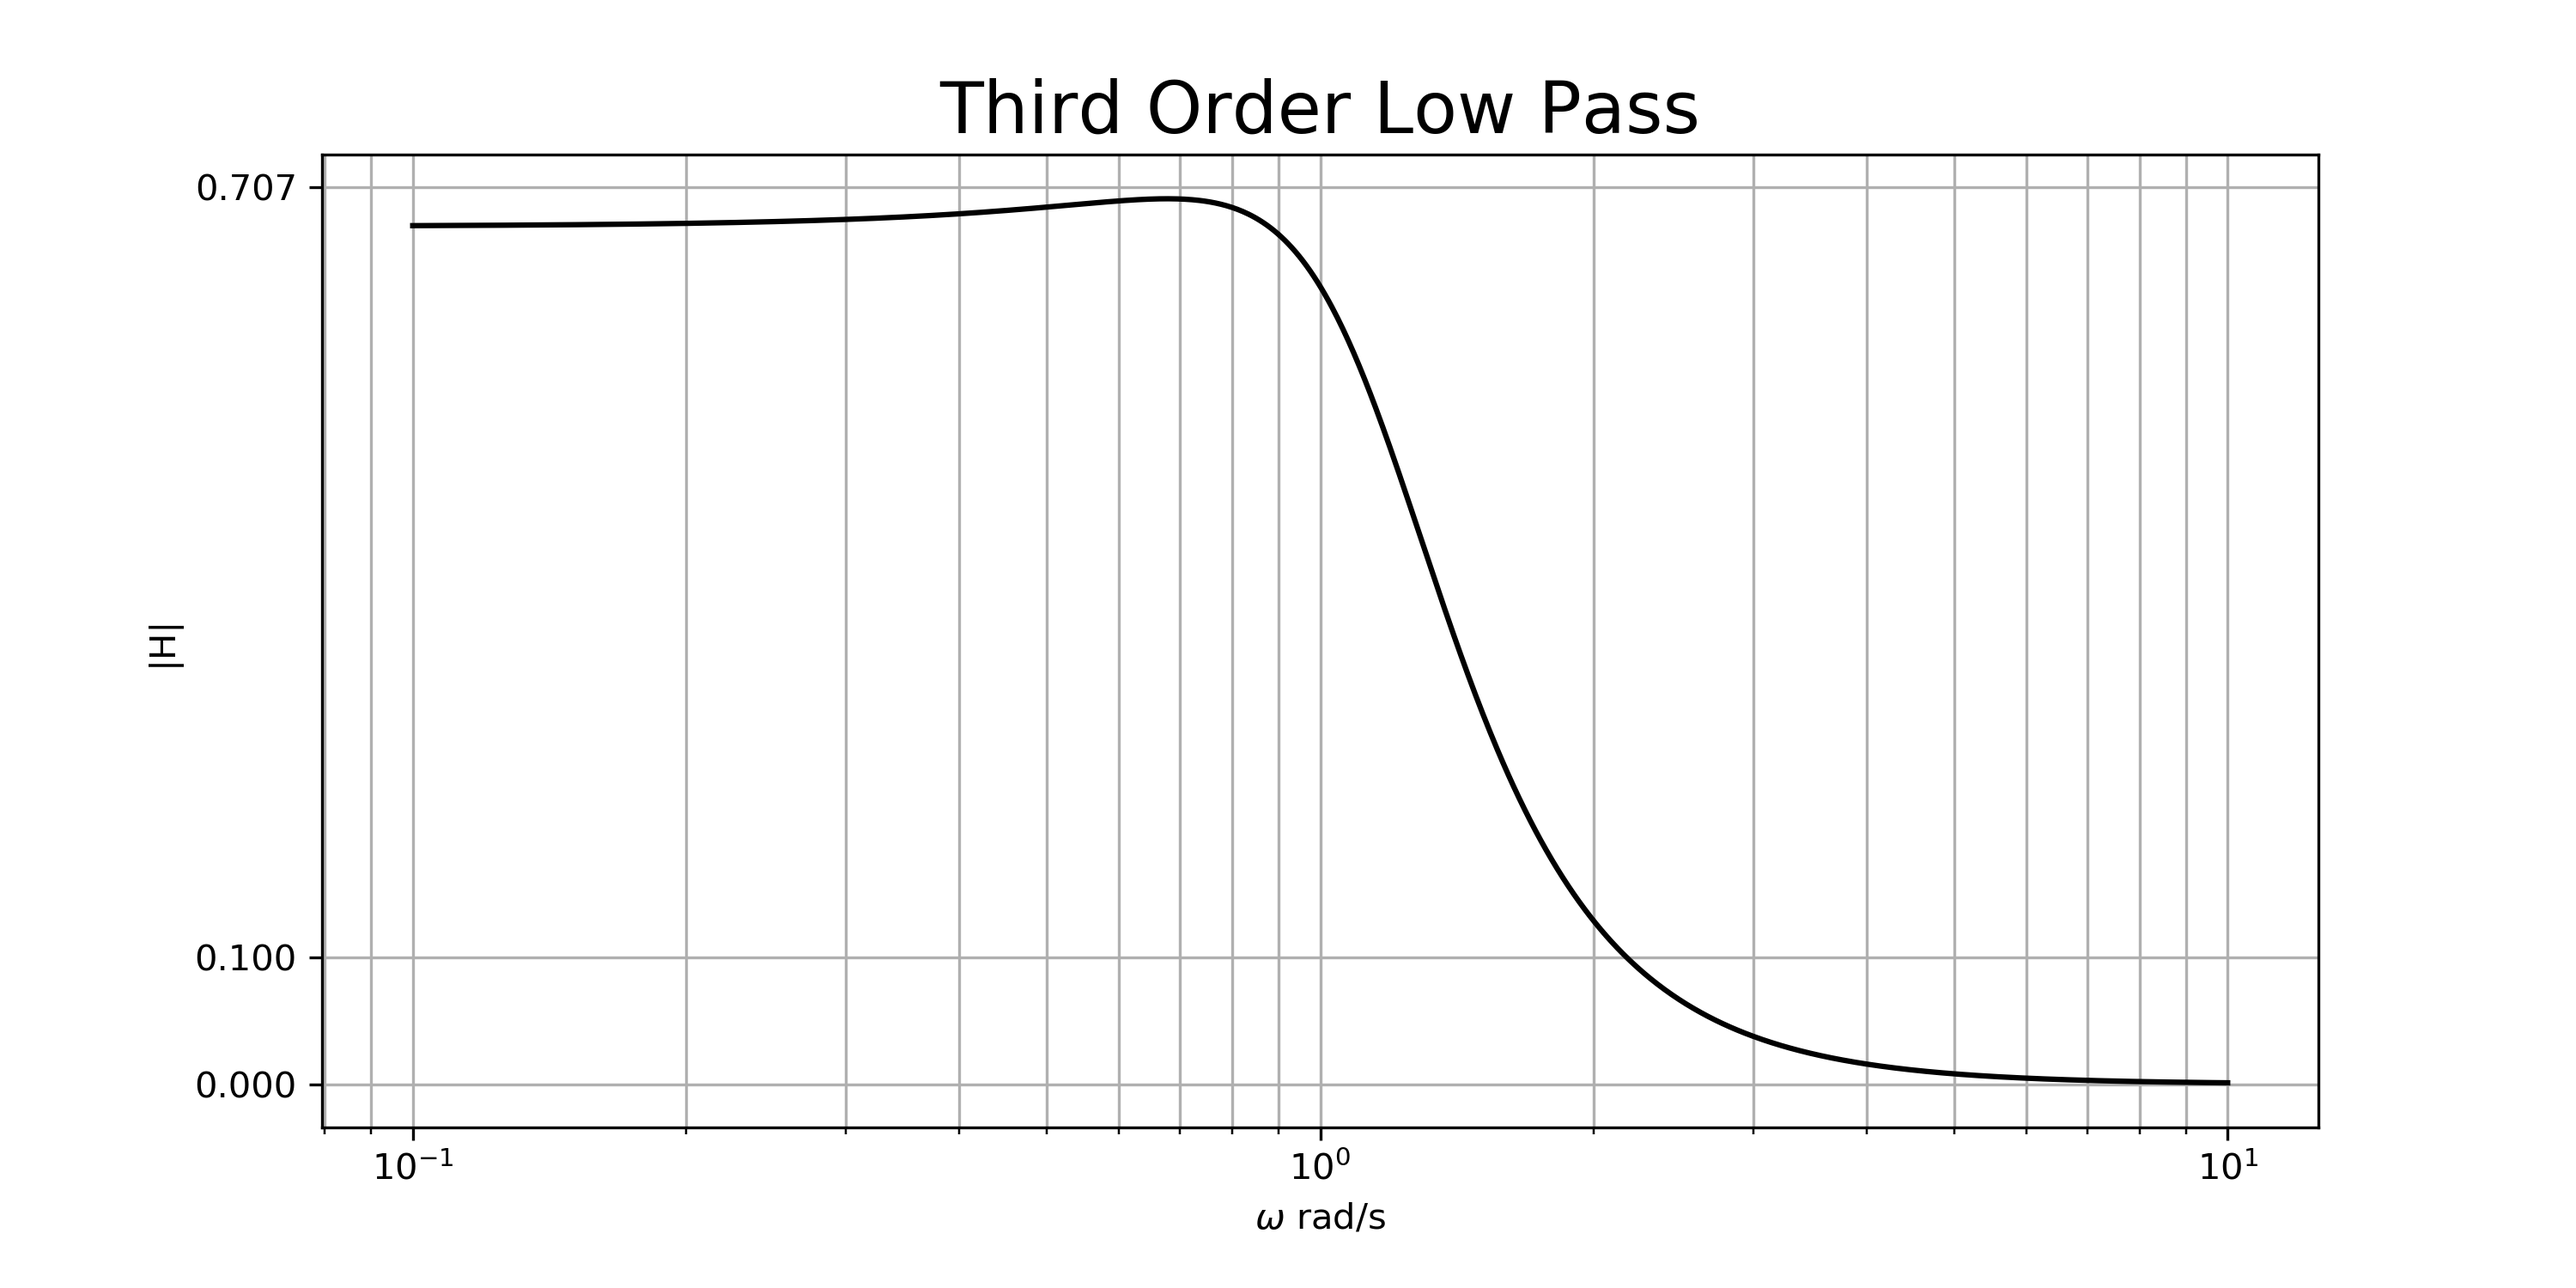
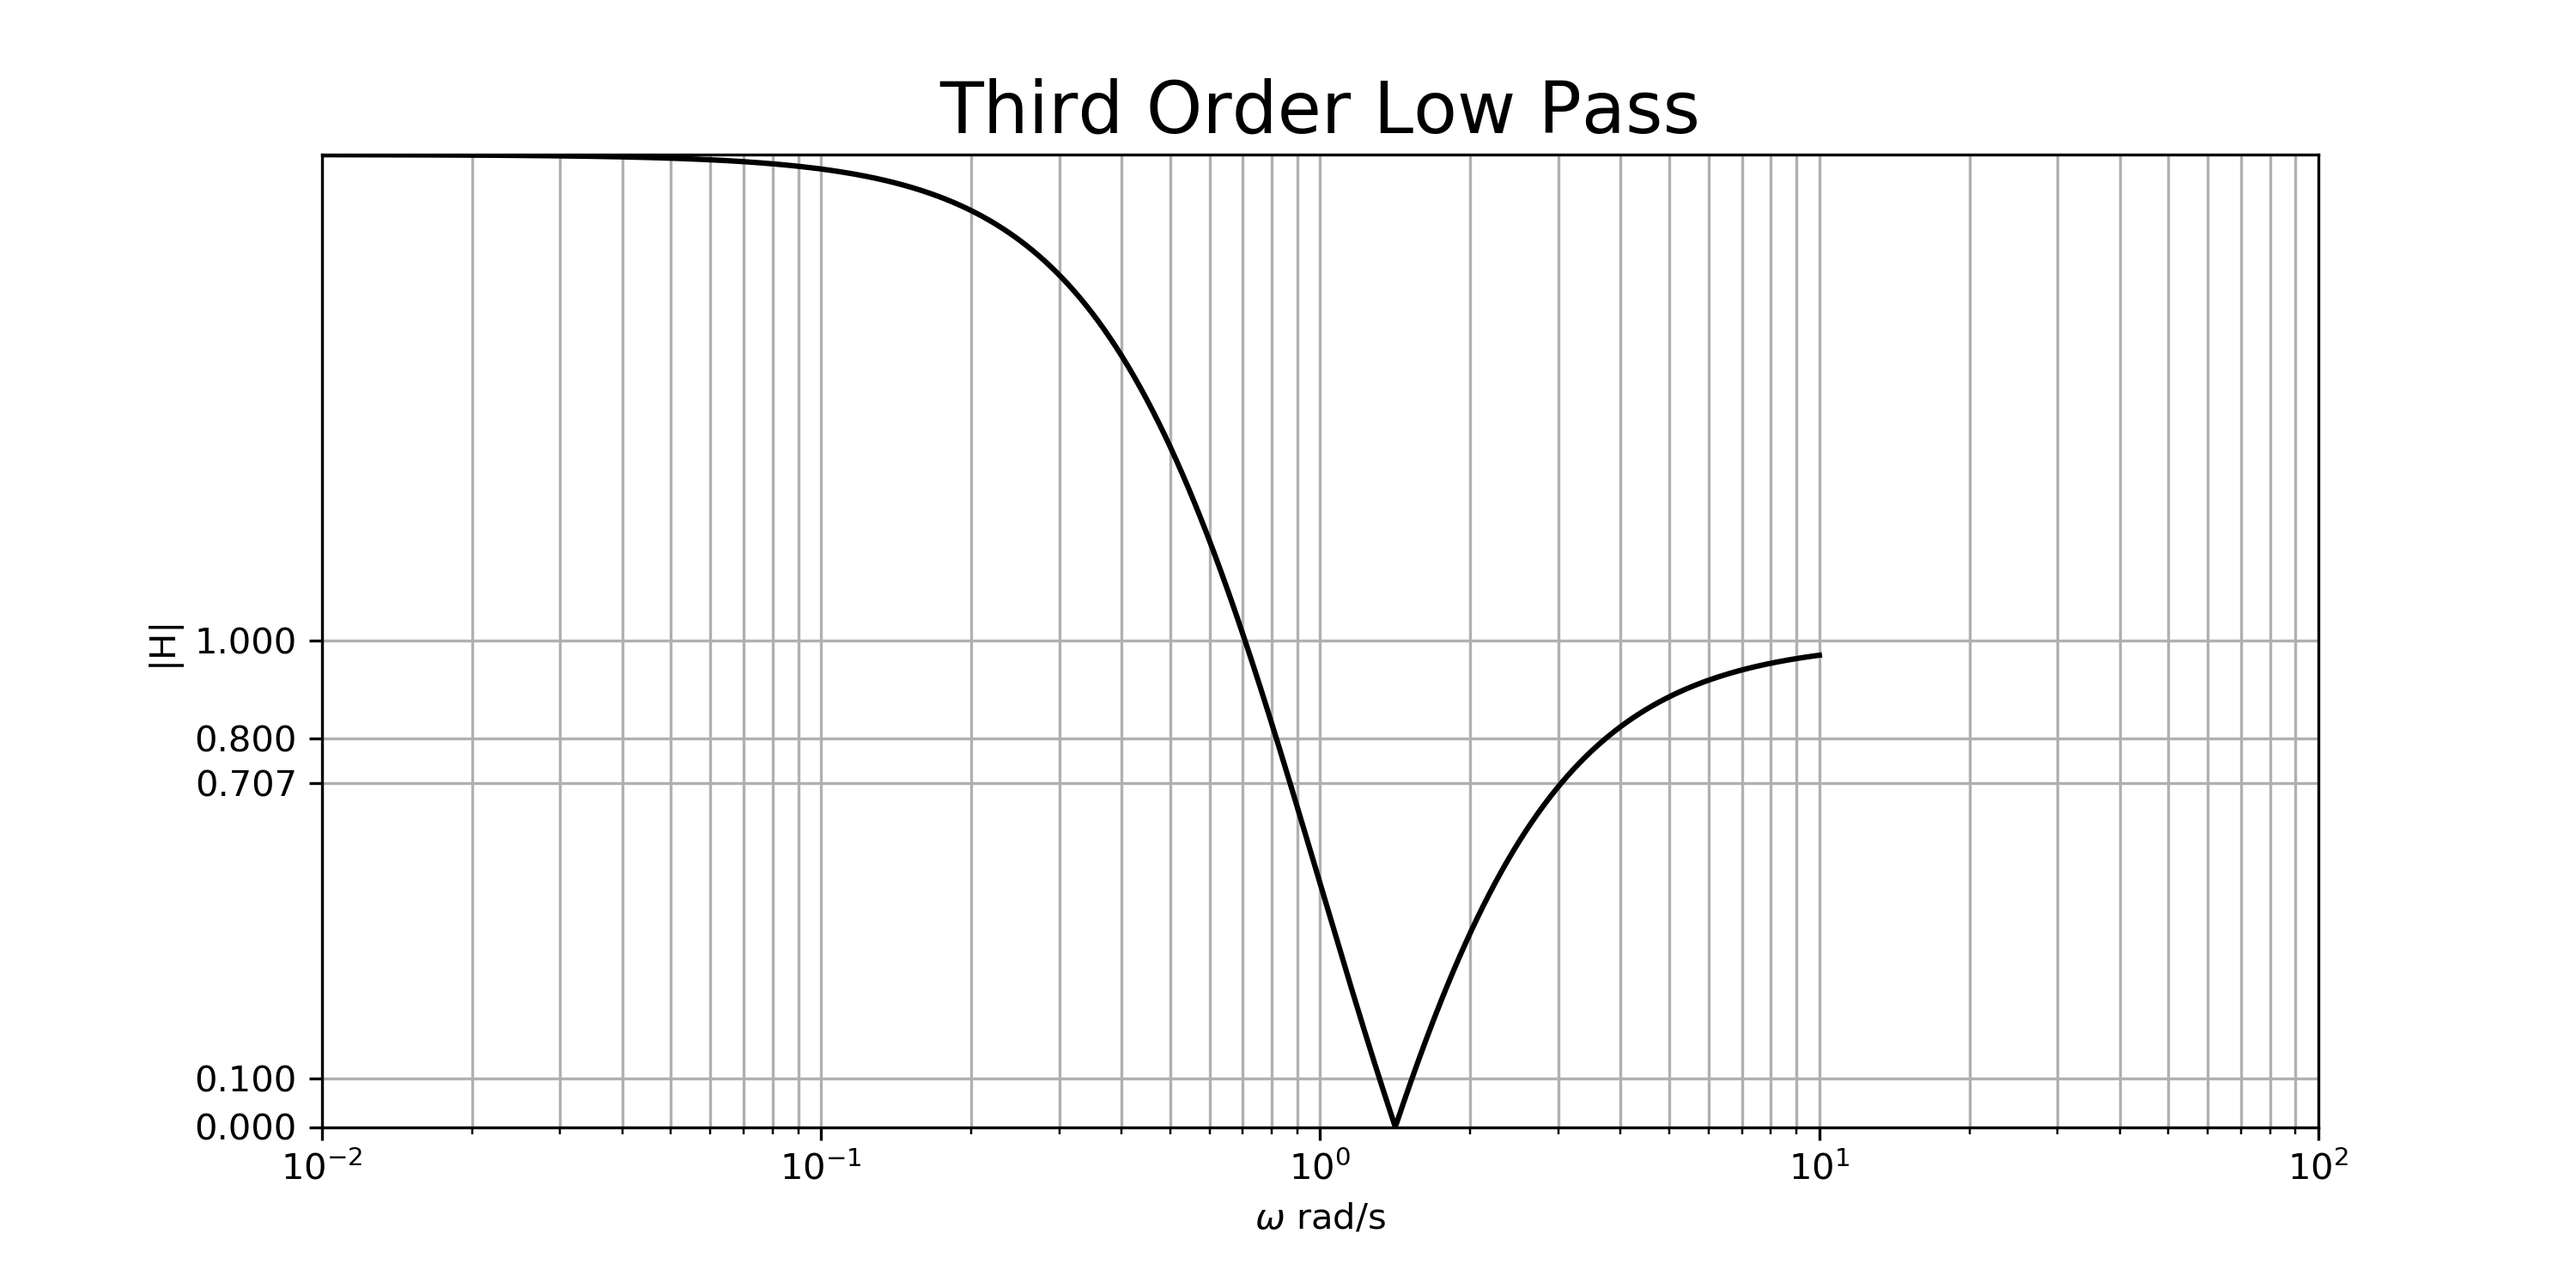
Class

diff --git a/TrebNFinder2.py b/TrebNFinder2.py
@@ -24,36 +24,37 @@ from control import tf
 s = 1
 Hp = 0.7
 Hs = 0.3
-ws = 320/180
-eps = sqrt(1/Hp**2-1)
+ws = 1
+wp = .65
+eps = sqrt(Hs**2/(1-Hs**2))
 alpha  = 1/eps + sqrt(1+1/eps**2)
 
-n = (np.arccosh((1/eps)*sqrt((1/abs(Hs)**2)-1))*(1/(np.arccosh(ws))))
-
+n = np.arccosh(sqrt(1/(eps**2*(1-Hp**2))))*1/np.arccosh(1/wp)
+print("n=",n)
 a = 0.5*(alpha**(1/n)+alpha**(-1/n))
 b = 0.5*(alpha**(1/n)+alpha**(-1/n))
 
-d1 = [1,a]
-d2 = [1,-2*a*cos(pi/n),a**2*cos(pi/n)**2+b**2*sin(pi/n)**2]
-K=1
-num = [0,0,K]
-den = np.convolve(d1,d2)
-
-
-
-
-system = sig.lti(num,den)
-w,Hmag,Hphase = sig.bode(system,1000)
-
-plt.figure(figsize= (10,5))
-plt.title('Third Order Low Pass',size = 20)
-plt.axis([s/10,s*10,0,1])
-plt.xlabel('$\omega$ rad/s')
-plt.ylabel('|H|')
-plt.yticks([0,0.1,0.8,0.707,1])
-plt.grid(which='both')
-plt.semilogx(w,10**(0.05*Hmag),'k')
-plt.savefig('Bode.png',dpi=300)
+#d1 = [1,a]
+#d2 = [1,-2*a*cos(pi/n),a**2*cos(pi/n)**2+b**2*sin(pi/n)**2]
+#K=1
+#num = [0,0,K]
+#den = np.convolve(d1,d2)
+#
+#
+#
+#
+#system = sig.lti(num,den)
+#w,Hmag,Hphase = sig.bode(system,1000)
+#
+#plt.figure(figsize= (10,5))
+#plt.title('Third Order Low Pass',size = 20)
+#plt.axis([s/10,s*10,0,1])
+#plt.xlabel('$\omega$ rad/s')
+#plt.ylabel('|H|')
+#plt.yticks([0,0.1,0.8,0.707,1])
+#plt.grid(which='both')
+#plt.semilogx(w,10**(0.05*Hmag),'k')
+#plt.savefig('Bode.png',dpi=300)
 
 #dt = 0.001
 #NN = 50000

diff --git a/Treb2FilterMaybe.py b/Treb2FilterMaybe.py
@@ -21,33 +21,35 @@ from math import pi, exp, cos, sin, log, sqrt
 from control import margin
 from control import tf
 
-s = 1
+#s = 1
 Hp = 0.7
 Hs = 0.3
-ws = 320/180
-eps = sqrt(1/Hp**2-1)
+ws = 1
+wp= 0.65
+eps = sqrt(Hs**2/(1-Hs**2))
 alpha  = 1/eps + sqrt(1+1/eps**2)
 
-n = (np.arccosh((1/eps)*sqrt((1/abs(Hs)**2)-1))*(1/(np.arccosh(ws))))
+n = round(np.arccosh(sqrt(1/(eps**2*(1-Hp**2))))*1/np.arccosh(1/wp))
 
-a = 0.5*(alpha**(1/n)+alpha**(-1/n))
+a = 0.5*(alpha**(1/n)-alpha**(-1/n))
 b = 0.5*(alpha**(1/n)+alpha**(-1/n))
 
-d1 = [1,a]
-d2 = [1,-2*a*cos(pi/n),a**2*cos(pi/n)**2+b**2*sin(pi/n)**2]
-K=1
-num = [0,0,K]
-den = np.convolve(d1,d2)
+theta = 45*pi/180
 
+s1 = a*cos(theta)+1j*b*sin(theta)
+q1 = 1/s
+q1c = np.conjugate(q1)
 
+n1 = [1,0,(1/cos(pi/4))**2]
+d1 = [1,np.real(q1+q1c),np.real(q1*q1c)]
+K= d1[2]/n1[2]
 
-
-system = sig.lti(num,den)
+system = sig.lti(n1,d1)
 w,Hmag,Hphase = sig.bode(system,1000)
 
 plt.figure(figsize= (10,5))
 plt.title('Third Order Low Pass',size = 20)
-plt.axis([s/10,s*10,0,1])
+plt.axis([s/100,s*100,0,2])
 plt.xlabel('$\omega$ rad/s')
 plt.ylabel('|H|')
 plt.yticks([0,0.1,0.8,0.707,1])
